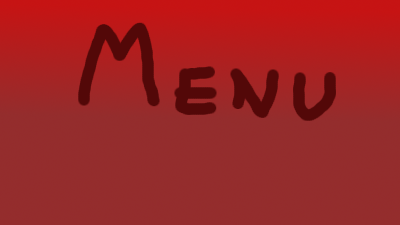
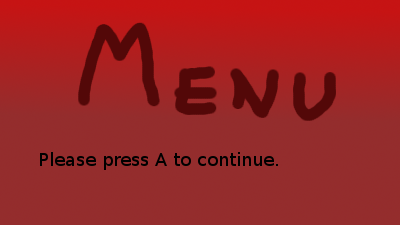
Added image and keypresses in example

Changed region(s): [[0.09, 0.6844, 0.69, 0.7467]]

diff --git a/index.js b/index.js
@@ -2,19 +2,19 @@
 // Namespace
 var Index = {
     scene: null,
-    scene2: null
+    menu_scene: null
 };
 
 // Init
 window.onload = function () {
     // Create Scenes
     Index.scene = _scene("exampel_canvas", {});
-    Index.scene2 = _scene("exampel_canvas", {});
+    Index.menu_scene = _scene("exampel_canvas", {});
 
     // Register Events
-    Index.scene.keypress('a', function(){ alert('Yes'); });
-    Index.scene.keypress('b', function(){ alert('Maybe'); });
-    Index.scene2.keypress('a', function(){ alert('No'); });
+    Index.scene.keypress('a', function(){ alert('You pressed key A'); });
+    Index.scene.keypress('b', function(){ alert('The B key was pressed'); });
+    Index.menu_scene.keypress('a', function(){ Index.scene.draw(); });
 
     // Create Layers and Objects
     var lb = Index.scene._layer("background");
@@ -32,9 +32,9 @@ window.onload = function () {
     lbox.node({x:100,y:50,img:'logo.gif'});
     lbox.node({x:100,y:100,img:'logo.gif',width:30,height:30});
 
-    lmenu = Index.scene2._layer("menu");
+    lmenu = Index.menu_scene._layer("menu");
     lmenu.node({img:'menu.png'});
 
-    Index.scene2.draw();
+    Index.menu_scene.draw();
 };
 

diff --git a/index.html b/index.html
@@ -25,6 +25,12 @@
             * <span onclick="_layers( 'trees' ).toggle().scene.draw();">Trees</span><br/>
         </div>
 
+        <div>
+            <b>Keypress</b><br/>
+            <i>On Nature Scene press 'a' or 'b' to get a message</i><br/>
+        </div>
+
+
     </body>
 </html>
 
